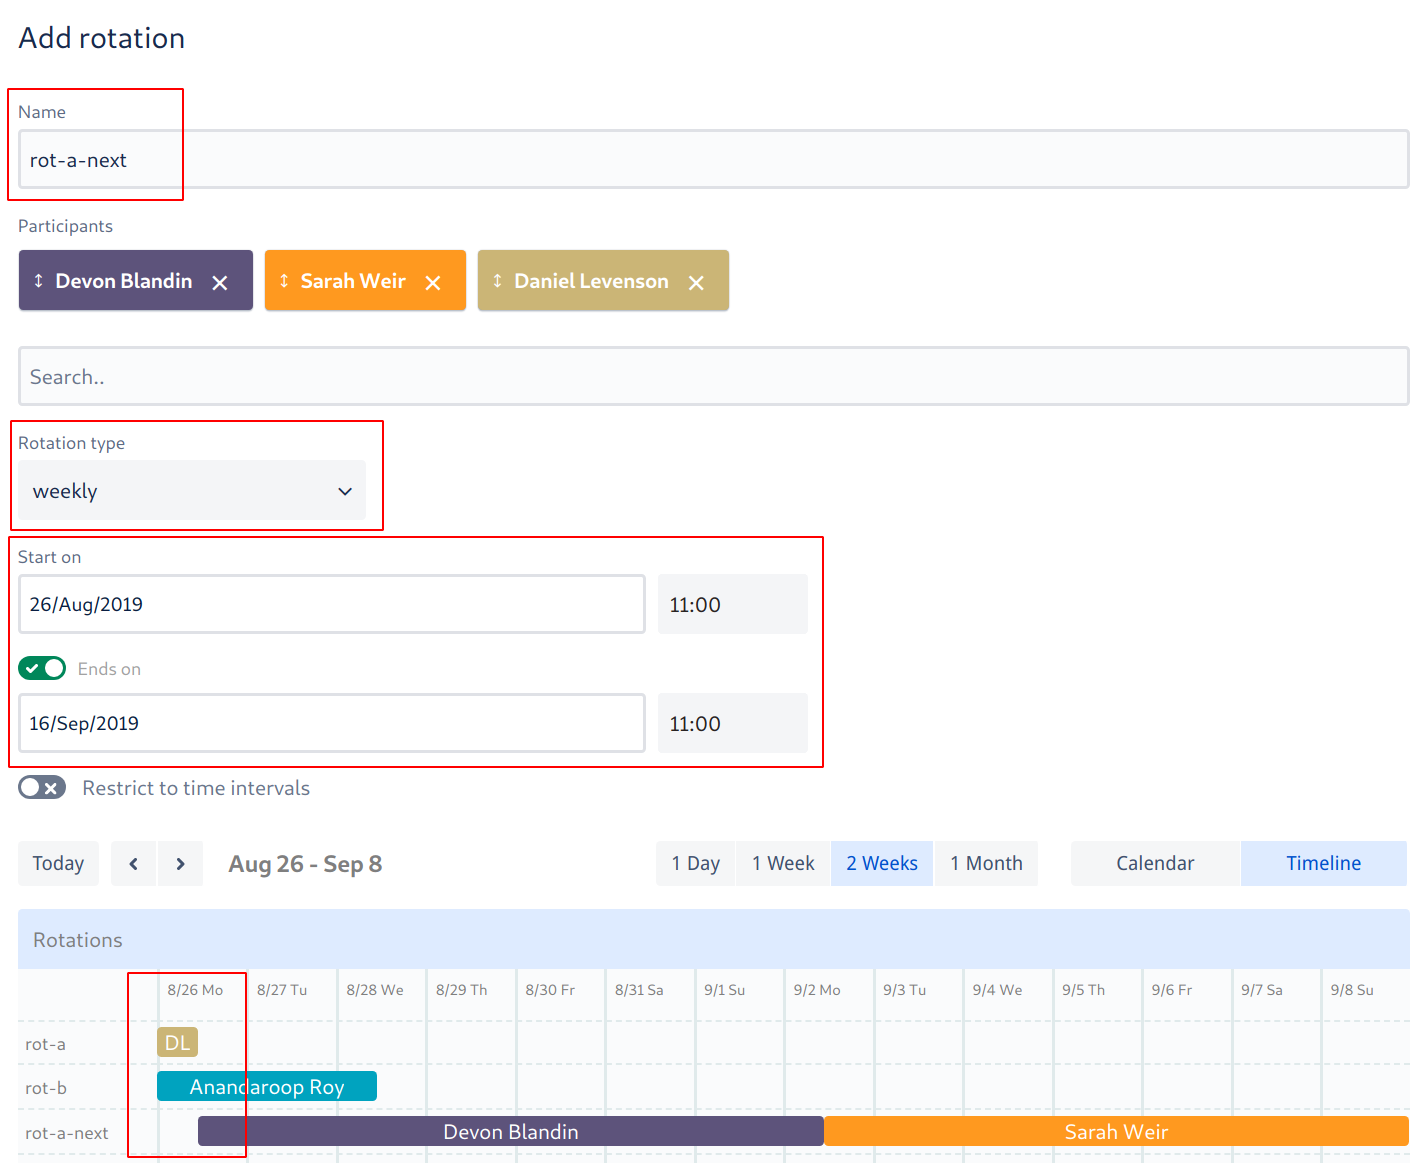
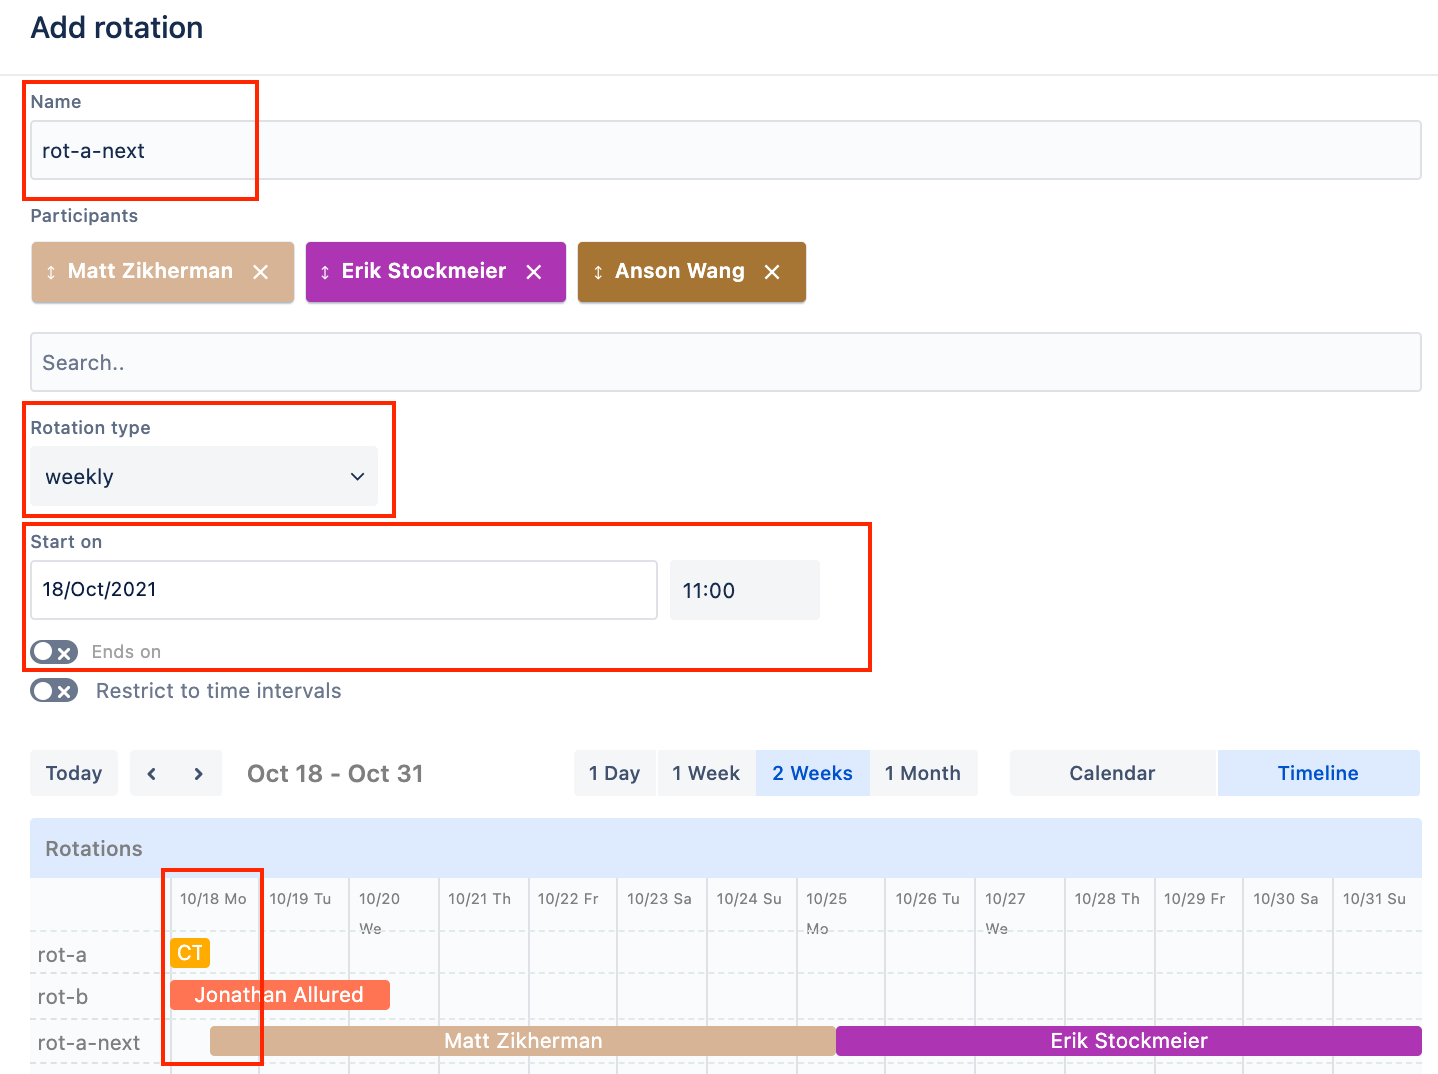
fix: updated schedule imgs

Changed region(s): [[0.0, 0.0, 0.9881, 1.0]]

diff --git a/playbooks/support/scheduling.md b/playbooks/support/scheduling.md
@@ -27,12 +27,18 @@ We use a staggered schedule to retain context and limit disruption as engineers 
     - Set the "Start on" date to correspond with the "End on" date from the previous A rotation
     - Leave "Ends on" unselected to ensure rotations repeat indefinitly
 
+      <img width=800 src="images/opsgenie-schedule-0.png" />
+      <img width=800 src="images/opsgenie-schedule-1.png" />
+
+   
 5. Create a new B rotation:
    - Name the new rotation "rot-b-next"
    - Add all participants from group B into the rotation
    - Set the rotation type to "weekly"
    - Set the "Start on" date to correspond with the "End on" date from the previous B rotation
    - Leave "Ends on" unselected to ensure rotations repeat indefinitely
+
+      <img width=800 src="images/opsgenie-schedule-2.png" />
 
 6. Put a note in the #dev channel announcing that the new rotations are up. This may look something like this:
    > @developers Hello team! :wave:
@@ -113,7 +119,7 @@ Considerations when adding a new engineer:
 
 - Check for an unbalanced number of rotation participants in rot-a vs rot-b. If staff locations result in one rotation having significantly fewer engineers, you should prioritize a balanced rotation schedule over Eastern Time Zone coverage.
 
-## Removing  Engineers
+## Removing Engineers
 
 When an engineer leaves:
 
@@ -124,4 +130,4 @@ When an engineer leaves:
 
 Responsibility of the departing engineer's manager:
 
-- Once an engineering manager overrides the departing engineer's next shift, they should remove the no-one placeholder from the participants list. 
+- Once an engineering manager overrides the departing engineer's next shift, they should remove the no-one placeholder from the participants list.
